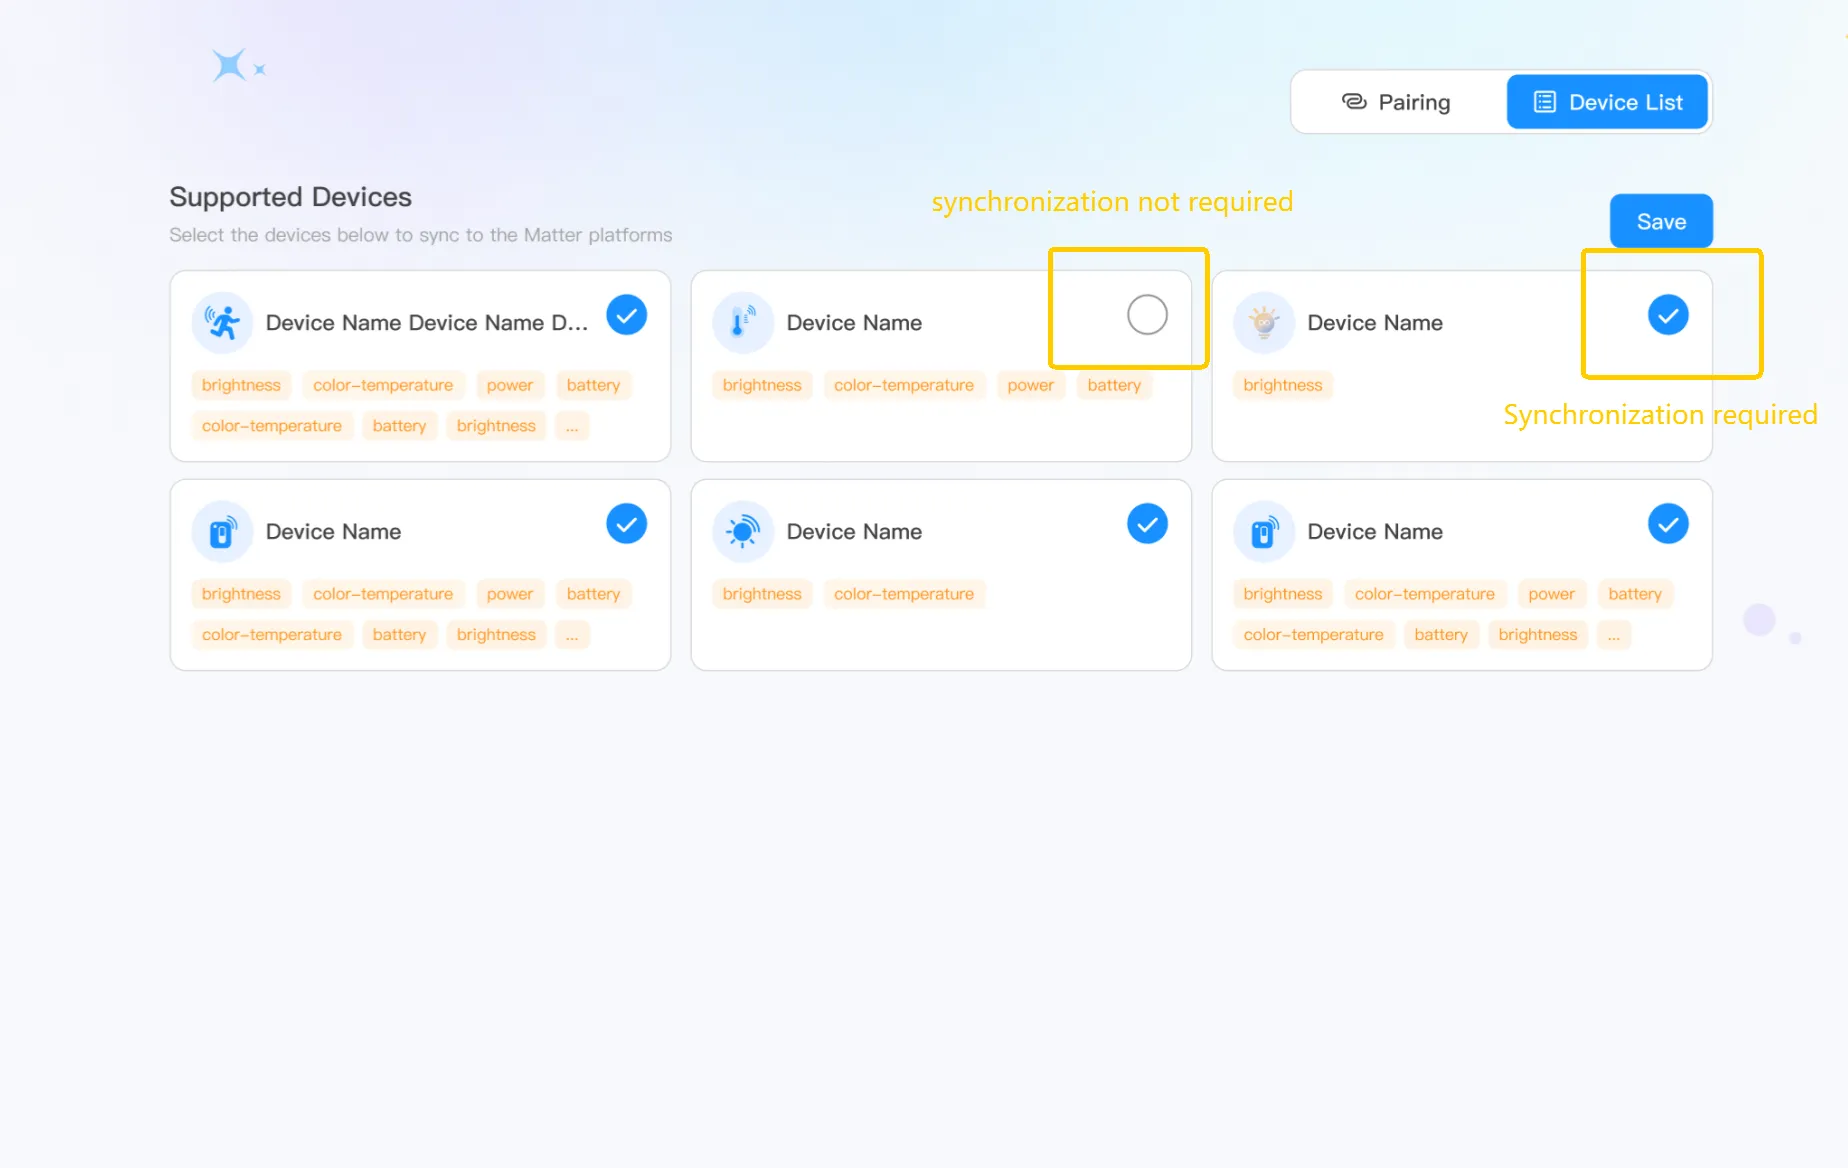
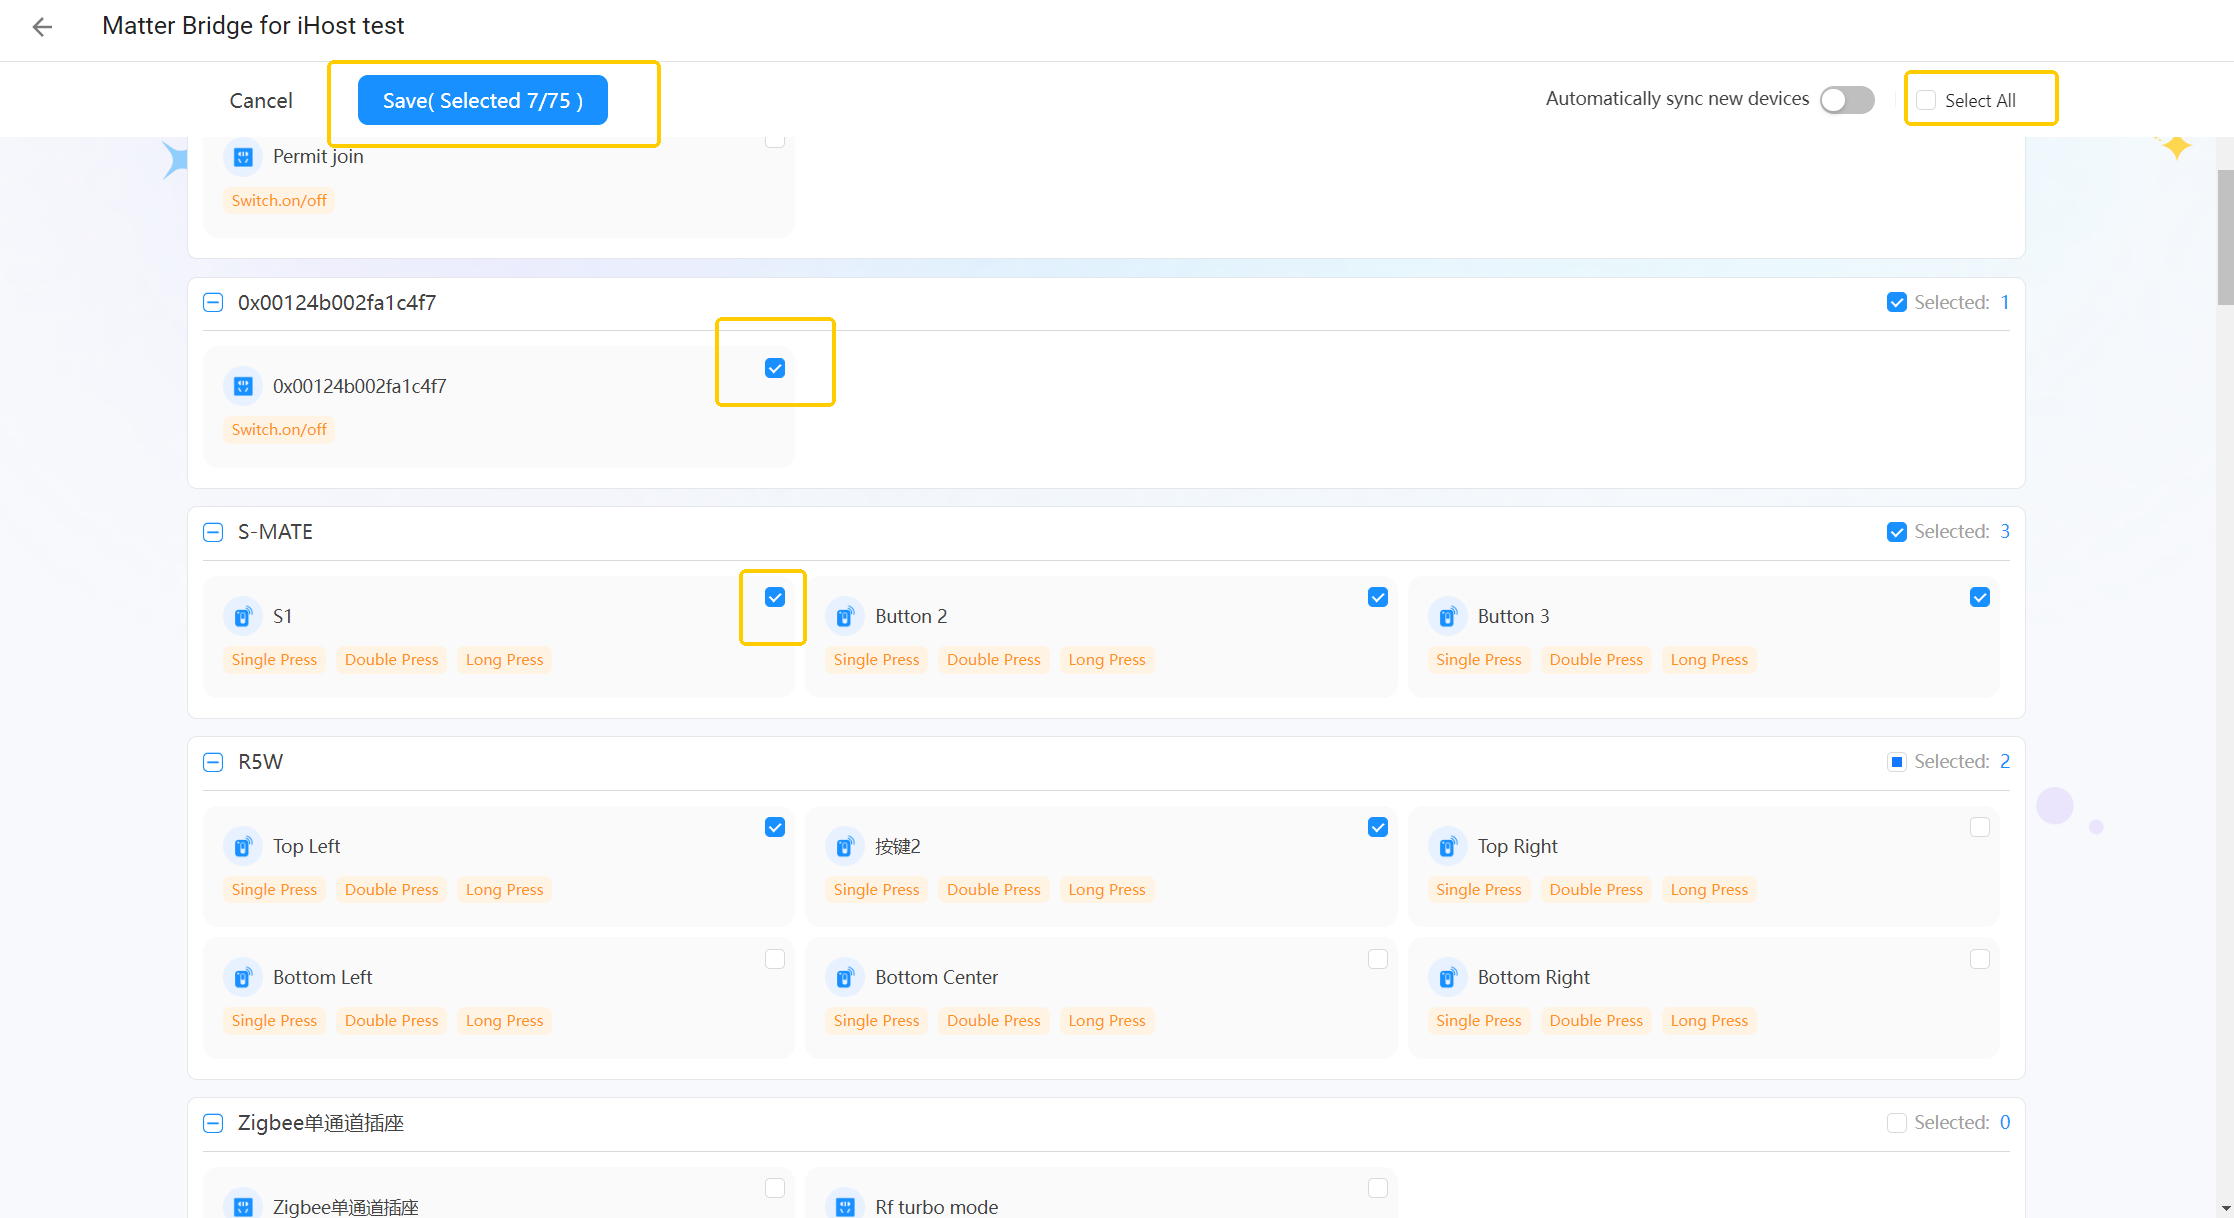
update matter bridge addon DOCS

diff --git a/hassio-ihost-matter-bridge-addon/DOCS.md b/hassio-ihost-matter-bridge-addon/DOCS.md
@@ -2,14 +2,14 @@
 
 ## Introduction
 
-Matter Bridge add-on exposes Home Assistant devices as Matter-enabled devices, enabling them to be integrated with Matter platforms, such as Apple Home, Google Home, and Amazon Alexa.  
+Matter Bridge for iHost add-on exposes entities of Home Assistant devices as Matter-enabled devices, enabling them to be integrated with Matter platforms, such as Apple Home, Google Home, and Amazon Alexa.  
 This add-on is based on iHost Matter Bridge and has passed Matter certification to ensure protocol compatibility and long-term availability.
 
 At the same time, it is compatible with web and mobile terminals.
 
 ## Prerequisite
 
-The **Matter Bridge** add-on is designed for the **HA over iHost** project **ONLY**, allowing users to expose Home Assistant devices as Matter devices and sync them to supported Matter platforms for control.
+The **Matter Bridge for iHost add-on** is designed for the **HA over iHost** project **ONLY**, allowing users to expose entities of Home Assistant devices as Matter devices and sync them to supported Matter platforms for control.
 
 Therefore, this add-on is only functional when Home Assistant is running on iHost. Learn [<u>How to run Home Assistant Operating System on iHost?</u>](https://github.com/iHost-Open-Source-Project/ha-operating-system?tab=readme-ov-file#readme)
 
@@ -56,29 +56,29 @@ After installation, click **Start** to launch the add-on. Wait until the service
 2. Follow the instructions to add Home Assistant as a Matter Bridge and sync its devices to the connected Matter Fabrics.
 
 -   Click **Start Pairing**.
--   Scan the **QR code** or enter the **numeric setup code** using the app of any Matte-enabled Platform to pair the Matter Bridge, including:
+-   Scan the **QR code** or enter the **numeric setup code** using the app of any Matter-enabled Platform to pair the Matter Bridge, including:
     -   Apple Home App
     -   Amazon Alexa App
     -   Google Home App
     -   Samsung SmartThings
--   Sync supported Home Assistant devices to Matter Fabrics along with the Matter Bridge, including:
+-   **Go to the device list** and **select the entity** you want to sync to the Matter platform, including:
     -   Switch
-    -   Plug
+    -   Binary sensor
     -   Light
-    -   Sensor
-    -   Button
-    -   Curtain
-    -   Thermostat
+    -   Event 
+    -   Cover 
+    -   Climate
 
 ### ⚠ Note
 
 Due to differences in how the Matter standard is implemented across smart home platforms, **the same Matter device may appear and behave differently in each ecosystem**. This includes but is not limited to:
 
--   **Device display format**: Multi-channel devices are shown as a single card in Apple Home, but split into multiple cards in Google Home.
 -   **Device name display**: Naming rules are defined by each Matter platform, so a single device may appear with different names across platforms.
--   **Device status synchronization**: In the Google Home App, after controlling a device from another platform, you need to manually refresh the device list (pull-to-refresh) or enter the device detail page to update its status.
+-   **Device status not updated**: In  Alexa and Google Home App, after controlling a device from another platform, you need to manually refresh the device list (pull-to-refresh) or enter the device detail page to update its status.
+-   **Device status display is inconsistent**: In  Smartthings App，the percentage value of the light brightness is always 1% higher than the actual brightness value. Curtain percentage display reverse
+-   **Curtain percentage display reverse**:  Different platforms have different definitions of the opening and closing percentages of curtain-type devices. It is known that Alexa and Apple/Smartthings/Google have opposite directions. For example, Alexa displays a percentage of 30%, while Apple/Smartthings/Google displays a percentage of 70%.
 
-![image](https://raw.githubusercontent.com/iHost-Open-Source-Project/hassio-ihost-addon/refs/heads/master/hassio-ihost-matter-bridge-addon/images/support-devices.jpg)
+![image](https://raw.githubusercontent.com/iHost-Open-Source-Project/hassio-ihost-addon/refs/heads/master/hassio-ihost-matter-bridge-addon/images/support-devices.png)
 
 ![](https://raw.githubusercontent.com/iHost-Open-Source-Project/hassio-ihost-addon/master/hassio-ihost-matter-bridge-addon/images/qr-code.png)  
 ![](https://raw.githubusercontent.com/iHost-Open-Source-Project/hassio-ihost-addon/master/hassio-ihost-matter-bridge-addon/images/add-success.png)
@@ -93,15 +93,15 @@ After pairing the Matter Bridge, all the connected Matter Fabrics will be shown 
 ![](https://raw.githubusercontent.com/iHost-Open-Source-Project/hassio-ihost-addon/master/hassio-ihost-matter-bridge-addon/images/remove-all.png)
 ![](https://raw.githubusercontent.com/iHost-Open-Source-Project/hassio-ihost-addon/master/hassio-ihost-matter-bridge-addon/images/remove-all-confirm.png)
 
-## **<font style="color:#000000;">Manage Devices to Sync to Matter Fabrics</font>**
+## **<font style="color:#000000;">Manage entities that need to be synced to the Matter platform</font>**
 
 Click **Device List** in the top right corner to access the list of supported and not-supported Home Assistant devices for syncing to Matter Fabrics.  
-By default, all supported devices are synced to the connected Matter Fabrics.
 
 -   Click **Edit** next to the **Supported Devices** list
--   Select devices you want to sync, or uncheck them to remove from the connected Matter Fabrics.
--   Click **Save**.
-
 ![](https://raw.githubusercontent.com/iHost-Open-Source-Project/hassio-ihost-addon/master/hassio-ihost-matter-bridge-addon/images/device-list-1.png)  
+
+
+-   Select entities you want to sync, or uncheck them to remove from the connected Matter Fabrics.
+-   Click **Save**.
 ![](https://raw.githubusercontent.com/iHost-Open-Source-Project/hassio-ihost-addon/master/hassio-ihost-matter-bridge-addon/images/device-list-2.png)  
 ![](https://raw.githubusercontent.com/iHost-Open-Source-Project/hassio-ihost-addon/master/hassio-ihost-matter-bridge-addon/images/device-list-3.png)
